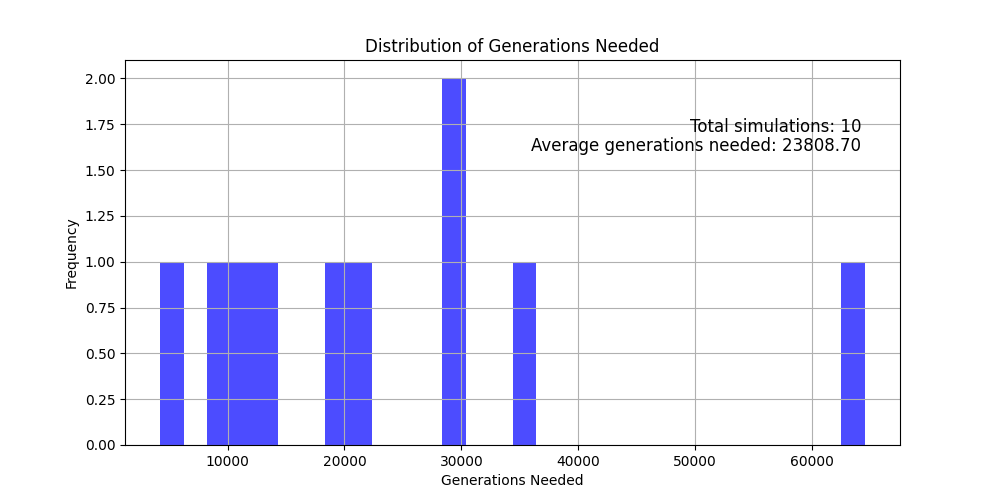
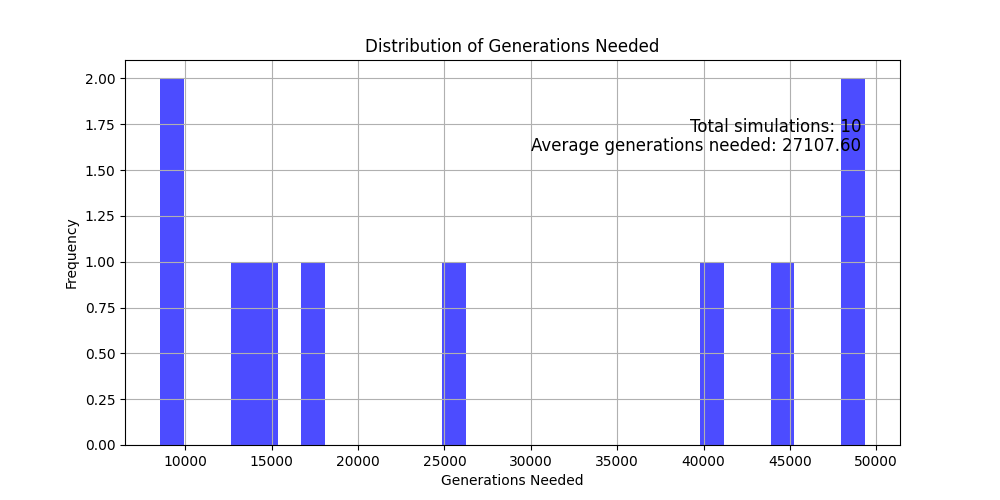
modified:   EvoRob03.py 	new file:   plots/Fitness Progression over Generations.png 	modified:   plots/fitness_distribution.png

diff --git a/EvoRob03.py b/EvoRob03.py
@@ -9,6 +9,7 @@ goal = "charles darwin was always seasick"
 length_of_goal = len(goal)
 simulations = 10 # Number of simulations to run
 generations_needed = []
+fitness_history = []  # List to store fitness values
 
 def get_random_string(length):
     letters = string.ascii_lowercase + " "
@@ -20,6 +21,10 @@ for simulation in range(simulations):
     print(f"========== Simulation {simulation} started ==========")
     default_str = get_random_string(length_of_goal)
     similarity = int(SequenceMatcher(None, default_str, goal).ratio() * 100)
+    
+    if simulation == 0:
+        fitness_history.append(similarity)  # Add initial fitness to history
+
     while similarity < 100:
         temp_str = default_str
         new_letter = random.choice(string.ascii_lowercase + " ")
@@ -31,6 +36,8 @@ for simulation in range(simulations):
             default_str = temp_str
             similarity = new_sim
             generation += 1
+            if simulation == 0:
+                fitness_history.append(similarity)  # Store fitness for each generation
             print("#"+str(generation)+" "+str(similarity) + "%"+" "+default_str)
 
             
@@ -38,6 +45,23 @@ for simulation in range(simulations):
 
 average_generations = sum(generations_needed) / len(generations_needed)
 print(f"Average generations needed: {average_generations:.2f}")
+
+# Plotting the fitness history for the first simulation
+plt.figure(figsize=(10, 5))
+plt.plot(fitness_history, marker='o', linestyle='-', color='b')
+plt.title('Fitness Progression over Generations for the first simulation')
+plt.xlabel('Generation')
+plt.ylabel('Fitness (%)')
+plt.grid(True)
+
+# Save the plot
+plot_path = os.path.join('plots', 'Fitness Progression over Generations.png')
+plt.savefig(plot_path)
+print(f"Plot saved to {plot_path}")
+
+plt.show()
+
+
 
 # Plotting results
 plt.figure(figsize=(10, 5))
@@ -52,7 +76,6 @@ text_y1 = 0.85
 text_y2 = 0.80
 plt.text(text_x, text_y1, f'Total simulations: {simulations}', fontsize=12, ha='right', va='top', transform=plt.gca().transAxes)
 plt.text(text_x, text_y2, f'Average generations needed: {average_generations:.2f}', fontsize=12, ha='right', va='top', transform=plt.gca().transAxes, color='black')
-
 
 
 # Save the plot
